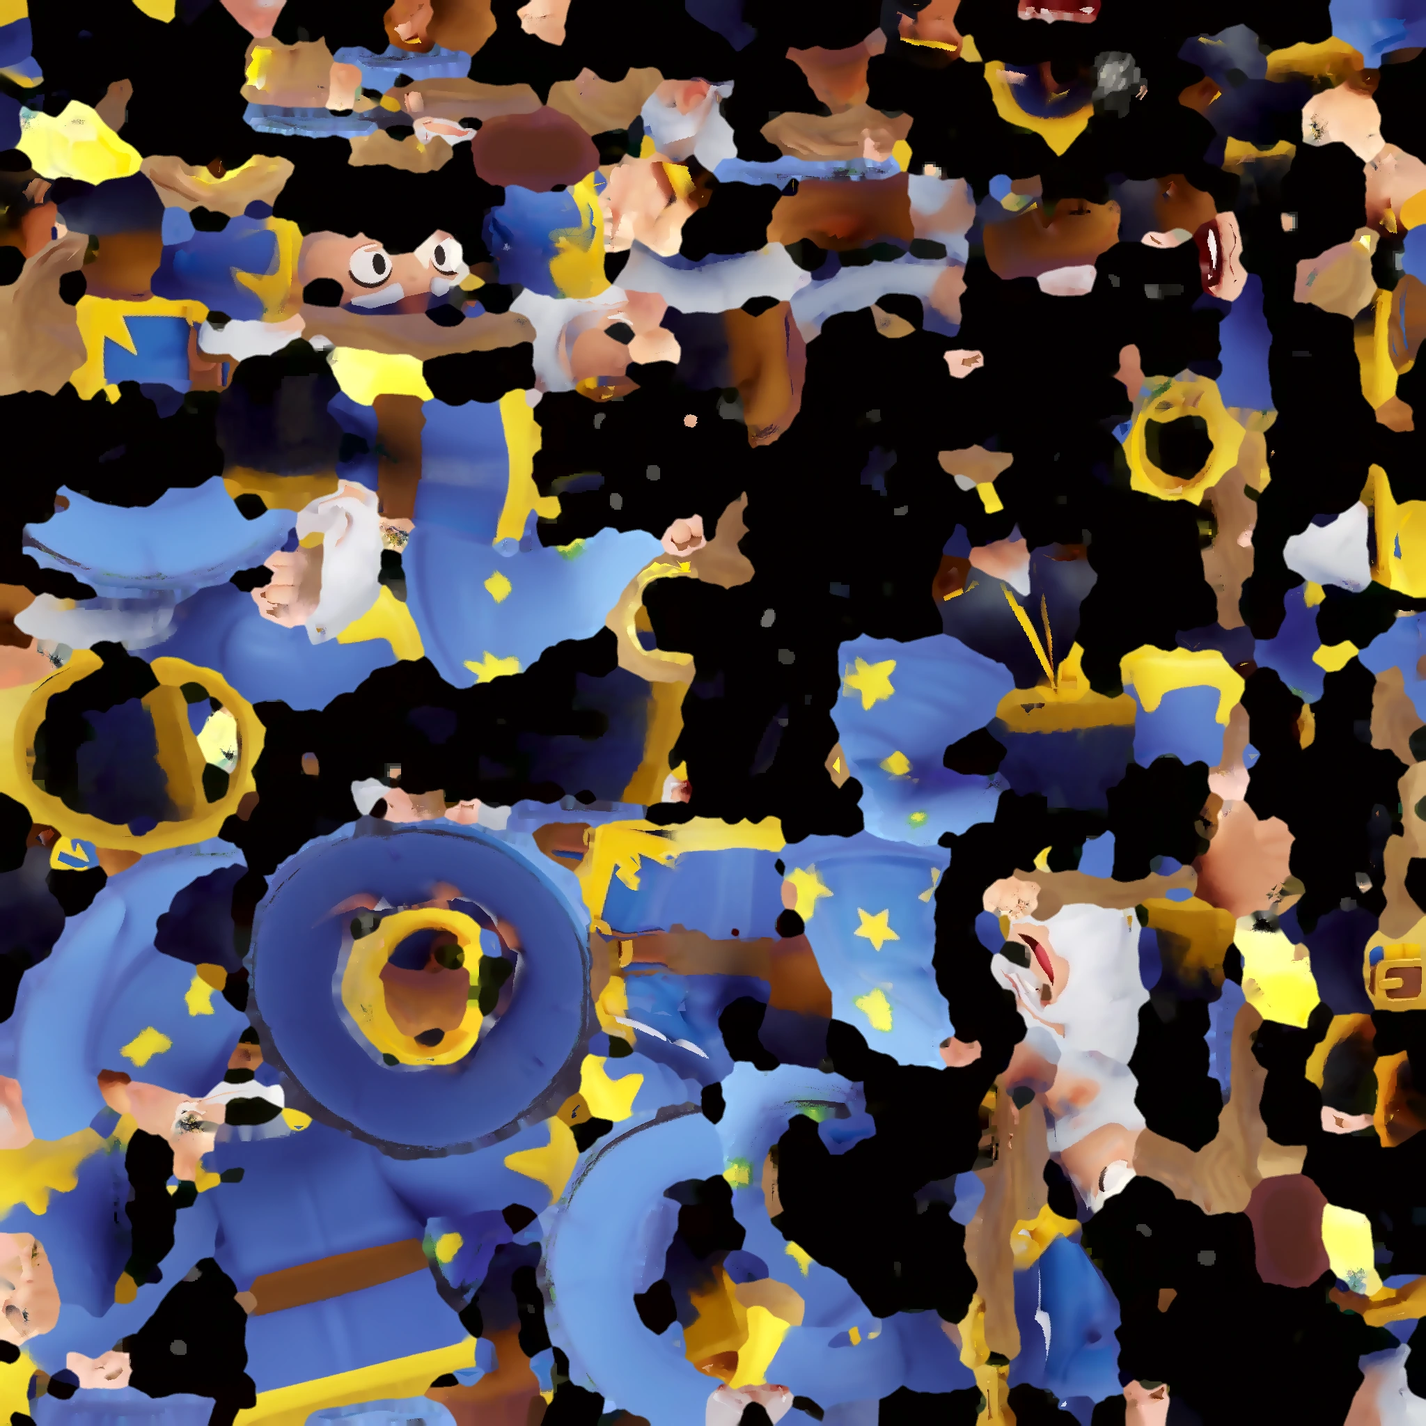
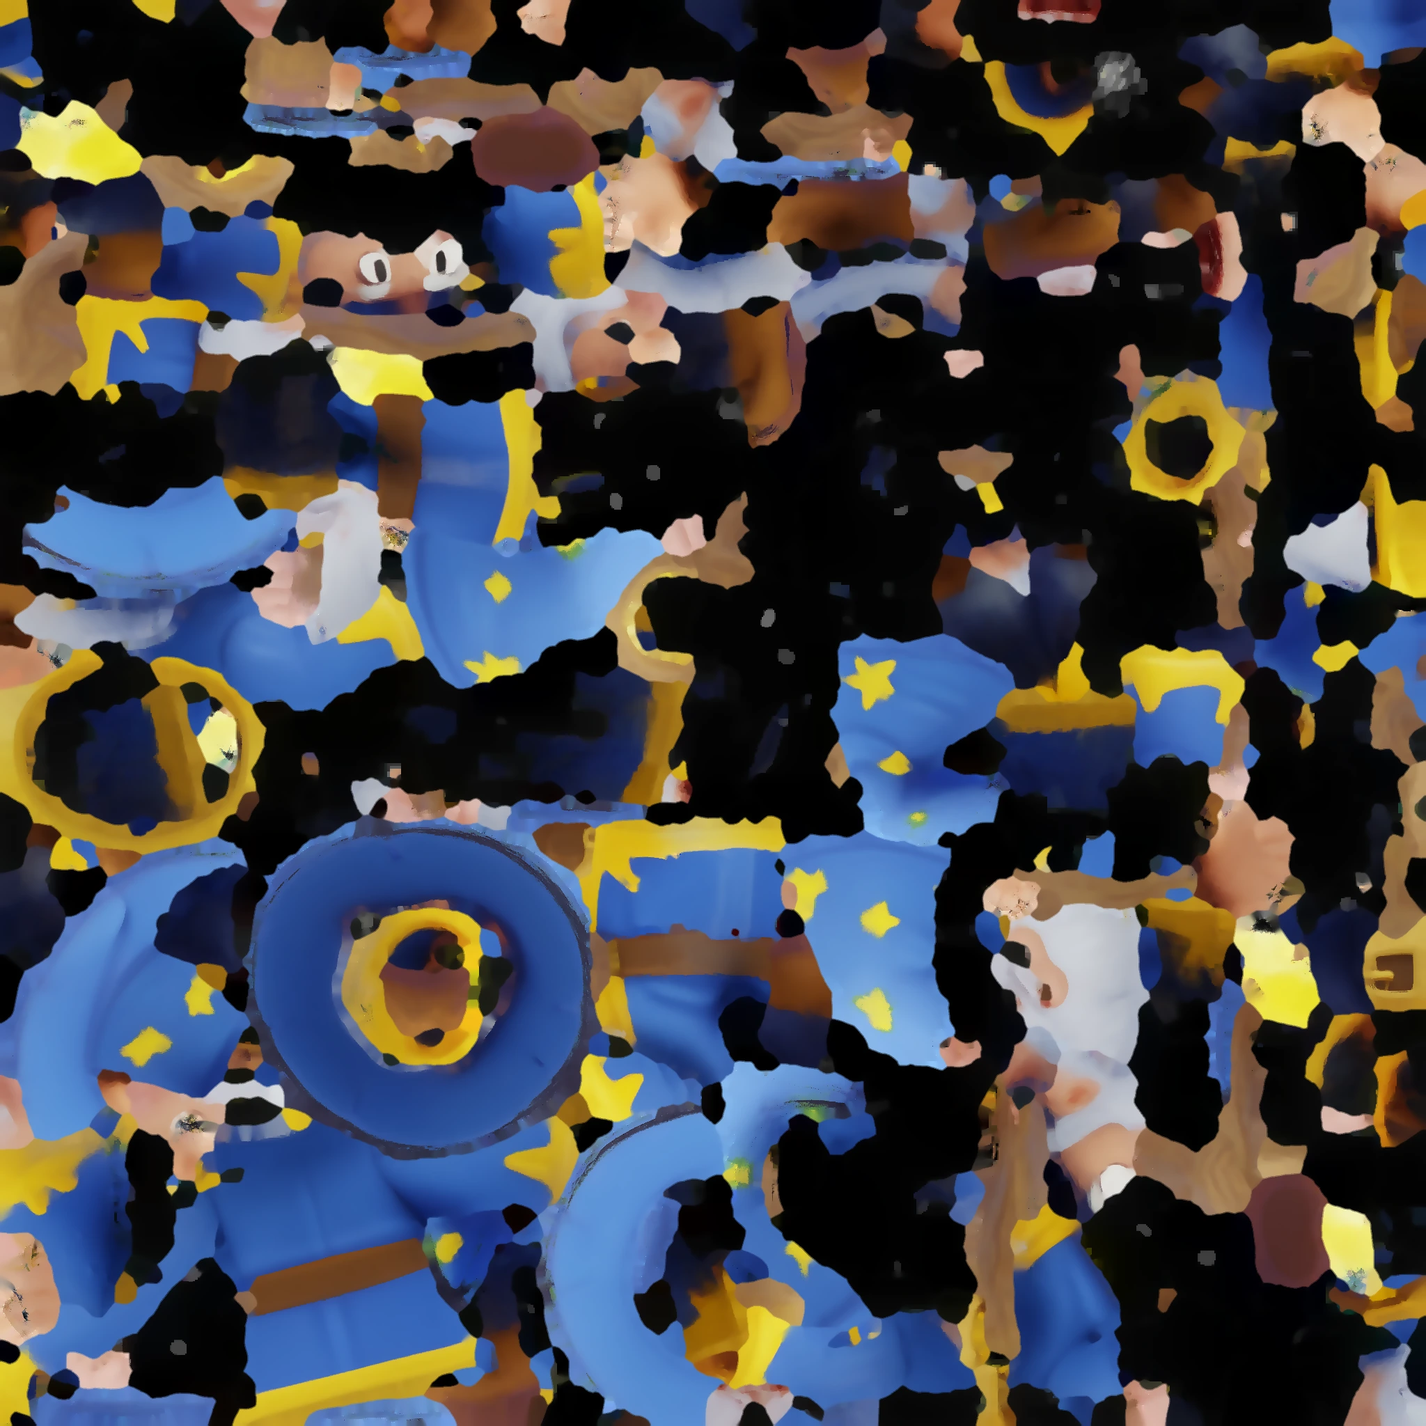
AMAGO: sin ventana de estadísticas al empezar (solo en Ajustes), Ajustes ordenado por secciones con tarjeta de perfil, botón Inicio con texto en la campaña y casa en el final de nivel (no había forma clara de salir), resumen de premios centrado y alineado, la mano del tutorial no se sale de la panta

diff --git a/amago/index.html b/amago/index.html
@@ -230,6 +230,14 @@ button:focus-visible{outline:3px solid var(--gold);outline-offset:2px}
 .hearts .hpn{font:400 17px/1 var(--f-game);color:#fff;margin-left:3px;letter-spacing:.02em}.hearts .hpn small{font-size:12px;opacity:.8}
 .hearts i.hp.lost{animation:hplost .5s ease-out}
 @keyframes hplost{0%{transform:scale(1.5)}40%{transform:scale(.8)}100%{transform:scale(1)}}
+.setsheet .setprof{display:flex;align-items:center;gap:10px;padding:10px 12px;border-radius:16px;margin:6px 0 4px}
+.setsheet .setprof .tav{width:52px;height:52px;flex:none;display:grid;place-items:center;overflow:hidden;border-radius:12px;background:rgba(255,255,255,.08)}.setsheet .setprof .tav img{width:100%;height:100%;object-fit:contain}
+.setsheet .setprof .spn{flex:1;min-width:0;display:flex;flex-direction:column;text-align:left}.setsheet .setprof .spn b{font:18px/1.1 var(--f-game)}.setsheet .setprof .spn small{font-size:12px;opacity:.8;line-height:1.25}
+.setsheet .setprof .spb{display:flex;flex-direction:column;gap:6px}.setsheet .setprof .spb .gbtn{font-size:12.5px;padding:7px 10px;min-height:0;width:auto;white-space:nowrap}
+.setsheet .setsec{margin:14px 2px 6px;text-align:left;font:15px/1 var(--f-game);color:var(--tx-hl,#ffd23f);letter-spacing:.02em}
+.setsheet .setfoot{display:flex;flex-direction:column;align-items:center;gap:8px;margin-top:14px;opacity:.85}.setsheet .setfoot small{font-size:11.5px;opacity:.7}
+.setsheet .linkbtn{background:none;border:0;color:#ff9fae;font:600 13px var(--f-ui,inherit);text-decoration:underline;padding:4px}
+.setsheet .setdel{display:flex;flex-direction:column;align-items:center;gap:6px}.setsheet .setdel b{font-size:13px}
 .side2{position:relative}.emobub{position:absolute;top:calc(100% + 8px);z-index:31;white-space:nowrap;font-family:var(--f-game);font-size:18px;color:var(--ink);line-height:1;padding:8px 12px;border-radius:16px;background:#fff;border:3px solid var(--ink);box-shadow:0 3px 0 var(--ink);animation:emopop 2.2s ease-out forwards}
 .emobub.p{left:58px}.emobub.b{right:10px}
 .emobub::before{content:"";position:absolute;top:-9px;width:14px;height:14px;background:#fff;border-left:3px solid var(--ink);border-top:3px solid var(--ink);transform:rotate(45deg)}
@@ -1123,8 +1131,9 @@ body.h3d .hstage{touch-action:none;cursor:grab}
 .herorev .hi.sil{filter:brightness(0) drop-shadow(0 0 18px var(--g))}
 .herorev .beam{position:absolute;left:50%;bottom:-40vh;width:140px;height:110vh;margin-left:-70px;background:linear-gradient(transparent,var(--g));opacity:.5;transform-origin:bottom;animation:beam .4s ease-out both;pointer-events:none}
 @keyframes beam{from{transform:scaleY(0)}}
-.boxsum2{position:relative;display:grid;grid-template-columns:repeat(3,1fr);gap:10px;width:min(92vw,400px);margin-top:4vh}
-.boxsum2>div{display:flex;flex-direction:column;align-items:center;padding:8px 4px;color:#fff}
+.boxsum2{position:relative;display:flex;flex-wrap:wrap;justify-content:center;align-items:flex-start;gap:12px 10px;width:min(92vw,400px);margin-top:3vh}
+.boxsum2>div{display:flex;flex-direction:column;align-items:center;justify-content:flex-start;gap:4px;padding:8px 4px;color:#fff;width:calc(33.3% - 8px);min-width:92px;text-align:center}
+.boxov.sum{justify-content:center!important;gap:0}.boxov.sum .bt{margin-top:0!important}
 .boxsum2 img,.boxsum2 svg{width:64px;height:64px;object-fit:contain}
 .boxsum2 b{font:20px/1 var(--f-game)}
 .boxsum2 small{font-size:12.5px}
@@ -1582,7 +1591,7 @@ body.gazing::after{content:"";position:fixed;inset:0;pointer-events:none;z-index
 .cmbg{position:fixed;inset:0;z-index:-1;background:radial-gradient(120% 60% at 50% 0%,#bff59a 0%,transparent 60%),linear-gradient(#6fd16a,#2f9a57 55%,#1d6f4a)}
 .cmbg::after{content:"";position:absolute;inset:0;background:radial-gradient(circle at 18% 30%,#fff3 0 3px,transparent 4px),radial-gradient(circle at 78% 58%,#fff3 0 3px,transparent 4px),radial-gradient(circle at 40% 80%,#0001 0 26px,transparent 27px),radial-gradient(circle at 86% 22%,#0001 0 34px,transparent 35px);}
 .cmhead{display:flex;align-items:center;gap:10px}
-.cmback{width:52px;height:48px;padding:0;flex:none}.cmback img{width:28px;height:28px}
+.cmback{width:58px;height:54px;padding:2px 0 0;flex:none;display:flex!important;flex-direction:column;align-items:center;justify-content:center;gap:0}.cmback img{width:26px;height:26px}.cmback small{font:11px/1 var(--f-game);color:#fff;letter-spacing:.02em}
 .cmtt{flex:1;min-width:0}.cmtt small{font-family:var(--f-game);font-size:12.5px;letter-spacing:.08em;color:#fff;opacity:.9}
 .cmtt h2{margin:0;font:400 20px/1.05 var(--f-game);color:#fff;letter-spacing:.01em;text-wrap:balance}
 .cmst{padding:8px 12px;border-radius:14px;font-family:var(--f-game);font-size:17px;color:#ffe25a;flex:none}
@@ -2393,6 +2402,7 @@ const TR=(()=>{
   Object.assign(I18N_EN,{"¿Tu amigo te ganaría?":"Could your friend beat you?","Rétale con un enlace: juega desde el navegador, sin instalar nada.":"Challenge them with a link: they play in the browser, no install needed."});
   Object.assign(I18N_EN,{"¡Vamos a por ellos!":"Let's get them!","Hoy me siento con suerte.":"Feeling lucky today.","Esta vez no me ven venir.":"They won't see me coming.","¿Una más?":"One more?","¡Estoy listo!":"I'm ready!","Nadie me encuentra.":"Nobody can find me.","¡Una victoria más y abres un cofre!":"One more win and you open a chest!","¡Solo # trofeos para #!":"Only # trophies to #!","¡Me falta 1 para acabar una misión!":"Just 1 more to finish a mission!","¡Puedo subir de nivel! Mírame en Héroes.":"I can level up! Check me in Heroes.","¿Probamos el reto del día?":"Shall we try the daily challenge?"});
   Object.assign(I18N_EN,{"Mi isla":"My island","De la arena":"Arena default","Hielo":"Ice","Dunas":"Dunes","Menta":"Mint","Noche":"Night","Cerezo":"Cherry","Lima":"Lime","Oro":"Gold","Azul":"Blue","Verde":"Green","Morado":"Purple","Carbón":"Charcoal","Chicle":"Bubblegum","Casillas":"Tiles","Marco":"Frame","Así se ve tu tablero en cada partida. Los estilos nuevos se ganan jugando.":"This is how your board looks in every match. New styles are earned by playing.","Juega # partidas":"Play # matches","Gana # partidas":"Win # matches","Llega a # trofeos":"Reach # trophies","Llega al nivel #":"Reach level #","Te faltan #":"# to go"});
+  Object.assign(I18N_EN,{"Sonido y avisos":"Sound & alerts","Ayuda":"Help","Nombre":"Name","Invitado · tu progreso solo está en este móvil":"Guest · your progress is only on this phone","Datos anónimos de juego":"Anonymous gameplay data","¿Seguro? Se borra todo tu progreso.":"Sure? All your progress will be deleted.","SÍ, BORRAR":"YES, DELETE","Inicio":"Home"});
   Object.assign(I18N_EN,{"Escalón # de #":"Tier # of #","Temporada #":"Season #"," · ¡fichas dobles para ponerte al día!":" · double tokens to catch up!","Quedan # días · ¡fichas dobles para ponerte al día!":"# days left · double tokens to catch up!","Nivel #":"Level #","de #":"of #","Nivel":"Level","Quita # vida":"Deals # damage","Quita # vidas":"Deals # damage"});
   Object.assign(I18N_EN,{"Batalla":"Battle","Al instante, contra rivales de tu nivel · trofeos, monedas, llaves y fichas":"Instant, against rivals of your level · trophies, coins, keys and tokens","Entrenamiento: elige tú la dificultad":"Training: pick the difficulty yourself","Entreno #":"Training #"});
   Object.assign(I18N_EN,{"¿Nos ayudas a mejorar?":"Help us improve?","Enviar estadísticas anónimas de cómo juegas (partidas, héroes, dónde te atascas) nos ayuda a hacer AMAGO más divertido. Sin anuncios, sin datos personales.":"Sending anonymous stats about how you play (matches, heroes, where you get stuck) helps us make AMAGO more fun. No ads, no personal data.","Puedes cambiarlo cuando quieras en Ajustes.":"You can change it anytime in Settings.","SÍ, CLARO":"SURE","No, gracias":"No, thanks"});
@@ -4883,6 +4893,8 @@ const ARENA_TILE={pradera:[0x86d84c,0x62b73a],bosque:[0x5cb845,0x479f35],volcan:
 const arenaTile=()=>{try{return ARENA_TILE[arenaOf(S.tro).a.k]||ARENA_TILE.pradera;}catch(e){return ARENA_TILE.pradera;}};
 function isleIco(t,f){t=t||myIsle()||arenaTile();f=f||myFrame();
   return `<span class="isleico" style="--a:${hx(t[0])};--b:${hx(t[1])};--f:${hx(f[0])}">${Array.from({length:9},(_,i)=>`<i class="${i%2?"b":""}"></i>`).join("")}</span>`;}
+/* la mano del tutorial nunca se sale de la pantalla (se cortaba en los bordes) */
+function placeHand(el,x,y){el.style.left=Math.max(6,Math.min(innerWidth-64,x))+"px";el.style.top=Math.max(70,Math.min(innerHeight-90,y))+"px";}
 /* ---- inicio ---- */
 function showHome(){
   gameFxOff();UI.screen="home";stopLoop();app.className="home";setBg();ensureDay();MUS.play("menu");
@@ -4891,8 +4903,8 @@ function showHome(){
   /* premios del camino de trofeos: se entregan solos al volver a Inicio (antes se quedaban sin cobrar) */
   if(!UI.modal&&!G&&S.tutDone&&claimable().length)setTimeout(()=>{if(UI.screen!=="home"||UI.modal||$(".reveal,.openov"))return;const l=claimable();if(!l.length)return;l.forEach(m=>S.claimed.push(m.t));save();claimMany(l);},700);
   if(S.noStats&&S.statsOk==null)S.statsOk=0;
-  if(S.statsOk==null&&S.games>=1&&ONLINE_OK&&!UI.modal&&!G){UI.modal={k:"statsask"};setTimeout(renderModal,900);}
-  else if(NOTIF.P&&S.notif==null&&S.games>=4&&!S.lastLoss&&!UI.modal&&!G){UI.modal={k:"notifask"};setTimeout(renderModal,900);}
+  /* sin ventana de "¿nos ayudas a mejorar?" (daba desconfianza): las estadísticas solo se envían si el jugador las activa en Ajustes */
+  if(NOTIF.P&&S.notif==null&&S.games>=4&&!S.lastLoss&&!UI.modal&&!G){UI.modal={k:"notifask"};setTimeout(renderModal,900);}
   if(!S.news[NEWHERO.id]&&!UI.modal&&!G&&S.tutDone&&S.games>=3&&!S.unl.includes(NEWHERO.id)){S.news[NEWHERO.id]=1;save();UI.modal={k:"news",id:NEWHERO.id};setTimeout(renderModal,600);}
   const {a}=arenaOf(S.tro),H=HEROES[S.fav],box=S.box.length,mr=misReady(),at=attention();
   const missDone=S.mis.list.filter(m=>m.v>=m.n).length,tier=passTier();
@@ -5284,7 +5296,7 @@ function boxHTML(M){
   }
   if(M.phase==="sum"){
     const sum=M.items.map(it=>`<div class="pnl" data-k="${it.k}" data-n="${it.n||0}">${it.k==="hero"?heroArt(it.id):it.k==="skin"?heroArt(SKINS[it.id].hero,it.id):`<img src="${UIA}${({coins:"coin",pp:"power",gems:"gem",tk:"star",frame:"crown"})[it.k]}.webp" alt="">`}<b class="out">${it.k==="hero"?HEROES[it.id].n:it.k==="skin"?"Aspecto":it.k==="frame"?"Marco":"+"+it.n}</b><small>${({coins:"Monedas",pp:"Poder",gems:"Gemas",tk:"Fichas",hero:"¡Nuevo héroe!",skin:SKINS[it.id]?SKINS[it.id].n:"",frame:FRAMES[it.id]?FRAMES[it.id].n:""})[it.k]}</small></div>`).join("");
-    return `<div class="boxov" data-a="boxtap"><span class="godrays"></span><span class="ribn gold bt">¡Has conseguido!</span><div class="boxsum2 stagger">${sum}</div>
+    return `<div class="boxov sum" data-a="boxtap"><span class="godrays"></span><span class="ribn gold bt">¡Has conseguido!</span><div class="boxsum2 stagger">${sum}</div>
       <button class="gbtn" data-a="boxtap" style="position:relative;margin-top:20px">CONTINUAR</button>${M.boxesAfter?`<p class="sub" style="position:relative;margin-top:8px">+${M.boxesAfter} cofre${M.boxesAfter>1?"s":""} para abrir</p>`:""}</div>`;
   }
   const it=M.items[M.step],left=M.items.length-M.step-1,heroLeft=M.items.slice(M.step+1).some(x=>x.k==="hero");
@@ -5383,25 +5395,28 @@ function renderModal(){
       <button class="gbtn" data-a="acc" data-m="reg"><span class="row">CREAR CUENTA${!S.gemOnce.acc?` <span class="gtag">+20 ${ico("gem","s")}</span>`:""}</span></button><button class="pillbtn" data-a="close">Ahora no</button></div>`;
   }
   else if(M.k==="settings"){
-    m.innerHTML=`<div class="sheet"><button class="x" data-a="close" aria-label="Cerrar">✕</button><h2 class="out">Ajustes</h2>
-      ${ONLINE_OK?`<button class="toggle acc" data-a="acc"><span class="tav">${heroArt(S.fav)}</span><span>${isGuest()?"Invitado":ACC.via==="apple"?"Cuenta de Apple":esc(ACC.email)}</span><i class="pill ${isGuest()?"go":""}">${isGuest()?"Crear cuenta":"Cuenta"}</i></button>`:""}
-      <button class="toggle" data-a="name"><span>Nombre: ${esc(S.name)}</span><i class="pill">Cambiar</i></button>
+    /* ordenado por secciones: perfil, sonido y avisos, ayuda; lo destructivo, discreto al final */
+    m.innerHTML=`<div class="sheet setsheet"><button class="x" data-a="close" aria-label="Cerrar">✕</button><h2 class="out">Ajustes</h2>
+      <div class="setprof pnl"><span class="tav">${heroArt(S.fav)}</span><span class="spn"><b>${esc(S.name)}</b><small>${ONLINE_OK?(isGuest()?"Invitado · tu progreso solo está en este móvil":ACC.via==="apple"?"Cuenta de Apple":esc(ACC.email)):""}</small></span>
+        <span class="spb"><button class="gbtn blue sm" data-a="name">Nombre</button>${ONLINE_OK?`<button class="gbtn ${isGuest()?"green":"blue"} sm" data-a="acc">${isGuest()?"Crear cuenta":"Cuenta"}</button>`:""}</span></div>
+      <p class="setsec">Sonido y avisos</p>
       <div class="tgroup">
       <button class="toggle" data-a="tsnd" aria-pressed="${S.snd?"true":"false"}"><span>Sonido</span><i class="sw ${S.snd?"on":""}" aria-hidden="true"></i></button>
       <button class="toggle" data-a="tmus" aria-pressed="${S.mus!==0&&S.snd?"true":"false"}"><span>Música</span><i class="sw ${S.mus!==0&&S.snd?"on":""}" aria-hidden="true"></i></button>
       <button class="toggle" data-a="tvib" aria-pressed="${S.vib?"true":"false"}"><span>Vibración</span><i class="sw ${S.vib?"on":""}" aria-hidden="true"></i></button>
       ${NOTIF.P?`<button class="toggle" data-a="tnotif" aria-pressed="${S.notif===1?"true":"false"}"><span>Avisos (como mucho 1 al día)</span><i class="sw ${S.notif===1?"on":""}" aria-hidden="true"></i></button>`:""}
-      ${ONLINE_OK?`<button class="toggle" data-a="tstats" aria-pressed="${S.statsOk===1?"true":"false"}"><span>Enviar estadísticas de uso</span><i class="sw ${S.statsOk===1?"on":""}" aria-hidden="true"></i></button>`:""}
-      </div>
       <button class="toggle" data-a="lang"><span>${LANG==="es"?"Idioma":"Language"}</span><i class="pill">${LANG==="es"?"Español":"English"}</i></button>
+      </div>
+      <p class="setsec">Ayuda</p>
       <div class="tgroup">
       <button class="toggle" data-a="how"><span>Cómo se juega</span><i class="chev">›</i></button>
       <button class="toggle" data-a="purchinfo"><span>Compras y probabilidades</span><i class="chev">›</i></button>
+      <button class="toggle" data-a="restore"><span>Restaurar compras</span><i class="chev">›</i></button>
       ${ONLINE_OK?`<button class="toggle" data-a="cloud"><span>Pasar mi partida a otro móvil</span><i class="chev">›</i></button>`:""}
       <button class="toggle" data-a="privacy"><span>Política de privacidad</span><i class="chev">›</i></button>
-      <button class="toggle" data-a="restore"><span>Restaurar compras</span><i class="chev">›</i></button>
+      ${ONLINE_OK?`<button class="toggle" data-a="tstats" aria-pressed="${S.statsOk===1?"true":"false"}"><span>Datos anónimos de juego</span><i class="sw ${S.statsOk===1?"on":""}" aria-hidden="true"></i></button>`:""}
       </div>
-      ${M.confirm?`<button class="gbtn red" data-a="reset2">SÍ, BORRAR TODO</button><button class="pillbtn" data-a="reset0">Cancelar</button>`:`<button class="pillbtn dangerlink" data-a="reset1">${isGuest()?"Borrar progreso":"Borrar cuenta y progreso"}</button>`}</div>`;
+      <div class="setfoot"><small>AMAGO ${window.AMAGO_VER||"1.2"}</small>${M.confirm?`<span class="setdel"><b>¿Seguro? Se borra todo tu progreso.</b><button class="gbtn red sm" data-a="reset2">SÍ, BORRAR</button><button class="pillbtn" data-a="reset0">Cancelar</button></span>`:`<button class="linkbtn" data-a="reset1">${isGuest()?"Borrar progreso":"Borrar cuenta y progreso"}</button>`}</div></div>`;
   }else if(M.k==="name"){
     m.innerHTML=`<div class="sheet"><h2 class="out">Tu nombre</h2><p>Es el que verán tus amigos.</p>
       <input id="nameinp" class="inp" maxlength="14" value="${esc(S.name)}" autocomplete="off" aria-label="Nombre">
@@ -5751,7 +5766,7 @@ function showCamp(ww){
   if(ww==null){ww=UI.campW;if(ww==null){ww=0;for(let i=0;i<CAMP.length;i++)if(campWorldOpen(i))ww=i;}}
   if(!campWorldOpen(ww))ww=0;UI.campW=ww;
   const w=ww,W=CAMP[w],cur=W.lv.findIndex((_,l)=>!(S.camp[w+"."+l]>0)),bg=CAMP_BG[w]||CAMP_BG[0],nx=CAMP[w+1],nxOpen=nx&&campWorldOpen(w+1);
-  app.innerHTML=`<div class="cmbg" style="background:radial-gradient(120% 60% at 50% 0%,${bg[0]} 0%,transparent 60%),linear-gradient(${bg[1]},${bg[2]} 55%,${bg[3]})"></div><div class="cmhead"><button class="gbtn blue sm cmback" data-a="home" aria-label="Inicio"><img src="${UIA}house.webp" alt=""></button><div class="cmtt"><small>CAMPAÑA · MUNDO ${w+1}</small><h2 class="out">${W.n}</h2></div><span class="cmst pnl out">★ ${campStars(w)}/${W.lv.length*3}</span></div>${campRoadHTML()}
+  app.innerHTML=`<div class="cmbg" style="background:radial-gradient(120% 60% at 50% 0%,${bg[0]} 0%,transparent 60%),linear-gradient(${bg[1]},${bg[2]} 55%,${bg[3]})"></div><div class="cmhead"><button class="gbtn blue sm cmback" data-a="home" aria-label="Inicio"><img src="${UIA}house.webp" alt=""><small>Inicio</small></button><div class="cmtt"><small>CAMPAÑA · MUNDO ${w+1}</small><h2 class="out">${W.n}</h2></div><span class="cmst pnl out">★ ${campStars(w)}/${W.lv.length*3}</span></div>${campRoadHTML()}
   <div class="cmmap">${([CAMP_DECO,CAMP_DECO2,CAMP_DECO3,CAMP_DECO4,CAMP_DECO5][w]||CAMP_DECO).map(([k,x,y,w,f])=>`<img class="cmdeco" src="${(window.AMAGO_ASSETS||"")}props/${k}.webp" alt="" style="left:${x}%;top:${y}%;width:${w}px${f?";transform:translate(-50%,-100%) scaleX(-1)":""}">`).join("")}
   <svg viewBox="0 0 100 100" preserveAspectRatio="none" aria-hidden="true"><polyline class="cmroad" points="${CAMP_POS.map(p=>p.join(",")).join(" ")}"/><polyline points="${CAMP_POS.map(p=>p.join(",")).join(" ")}"/></svg>
   ${W.lv.map((L,l)=>{const st=S.camp[w+"."+l]||0,open=campOpen(w,l);
@@ -5789,7 +5804,7 @@ async function endCamp(w){
       ${win&&!coins&&!gems?`<p class="sub in">Ya tenías los premios de este nivel.</p>`:""}
       ${win&&stars<3?`<p class="sub in">Consigue las 3 estrellas ganando sin perder vida.</p>`:""}
       ${!win?`<p class="sub in">${L.boss?L.hint:"¡Casi! Prueba con otro héroe."}</p>`:""}</div>
-    <div class="endbtns"><button class="gbtn blue" data-a="${win&&L.boss&&CAMP[wi+1]?"campw":"camp"}" data-w="${wi+1}">${win&&L.boss&&CAMP[wi+1]?"MUNDO "+(wi+2):"MAPA"}</button><button class="gbtn xl shine" data-a="campgo" data-w="${wi}" data-l="${next??l}">${next!=null?"SIGUIENTE":win?"REPETIR":"REINTENTAR"}</button></div>`);
+    <div class="endbtns"><button class="gbtn blue" data-a="home" aria-label="Inicio"><img src="${UIA}house.webp" alt="" style="width:34px;height:34px"></button><button class="gbtn blue" data-a="${win&&L.boss&&CAMP[wi+1]?"campw":"camp"}" data-w="${wi+1}">${win&&L.boss&&CAMP[wi+1]?"MUNDO "+(wi+2):"MAPA"}</button><button class="gbtn xl shine" data-a="campgo" data-w="${wi}" data-l="${next??l}">${next!=null?"SIGUIENTE":win?"REPETIR":"REINTENTAR"}</button></div>`);
 }
 /* ---- maestría: números por héroe y récords personales ----
    S.hs[id]={r:rondas, sh:disparos, hit:aciertos, dg:esquivas, dgn:golpes que iban a por ti, st:racha de rondas, bs:mejor racha, fk:K.O. más rápido (s), bd:más esquivas en una ronda, bp:mejor puntería en una ronda (con 4+ disparos)} */
@@ -5897,7 +5912,7 @@ function tutHand(){
     if(!R||R.over||UI.screen!=="game"||R.projs.some(p=>p.o==="p")||R.marks.p.some(m=>m.t==="huella")){h.remove();return;}
     if(R.now>=AMAGO.HIDE_T){
       if(!target){const f=R.heroes.b;target=[Math.max(0,Math.min(4,f.x+(Math.random()<.5?0:Math.sign(2-f.x)))),f.y];}
-      const c=B3.screenPos("b",target[0],target[1]);h.style.left=c.x+"px";h.style.top=c.y+"px";h.classList.add("on");
+      const c=B3.screenPos("b",target[0],target[1]);placeHand(h,c.x,c.y);h.classList.add("on");
     }
     requestAnimationFrame(tick);
   };
@@ -5967,7 +5982,7 @@ const TUT={
       const hide=!!UI.modal&&UI.modal.k!=="tutname";
       if(this.box)this.box.style.visibility=hide?"hidden":"";
       if(this.hand){const c=!hide&&this.handFn&&this.handFn();
-        if(c){this.hand.style.left=c.x+"px";this.hand.style.top=c.y+"px";this.hand.classList.add("on");}else this.hand.classList.remove("on");}
+        if(c){placeHand(this.hand,c.x,c.y);this.hand.classList.add("on");}else this.hand.classList.remove("on");}
       this.raf=requestAnimationFrame(f);
     };
     this.raf=requestAnimationFrame(f);

diff --git a/art/t2/conv3.py b/art/t2/conv3.py
@@ -50,7 +50,7 @@ C = np.stack([(px / Ws - .5) * Ws / Hs, 1 - py / Hs, (V[:, 2] - np.median(V[:, 2
 # El modelo está colocado exactamente sobre la ilustración, así que cada punto visible de frente tiene su píxel en el dibujo.
 # revisado a ojo: en estos el modelo no coincide con el dibujo (pose distinta) y la proyección deja caras dobles
 PROJ_OFF = {'brasa', 'mira', 'mina', 'salto', 'savia', 'rey', 'topo', 'arana', 'ojo', 'truco', 'muro', 'coloso'}
-if os.environ.get('PROJ', '0' if (i.startswith('pr_') or i.startswith('sk_') or i in PROJ_OFF) else '1') == '1':
+if os.environ.get('PROJ', '0') == '1':  # desactivada por defecto: con la proyección las caras salían peor que con la textura propia
     import cv2
     spa = np.asarray(sp, np.float32); sal = spa[..., 3]
     inner = cv2.erode((sal > 250).astype(np.uint8), np.ones((9, 9), np.uint8)) > 0   # sin el contorno negro del borde
